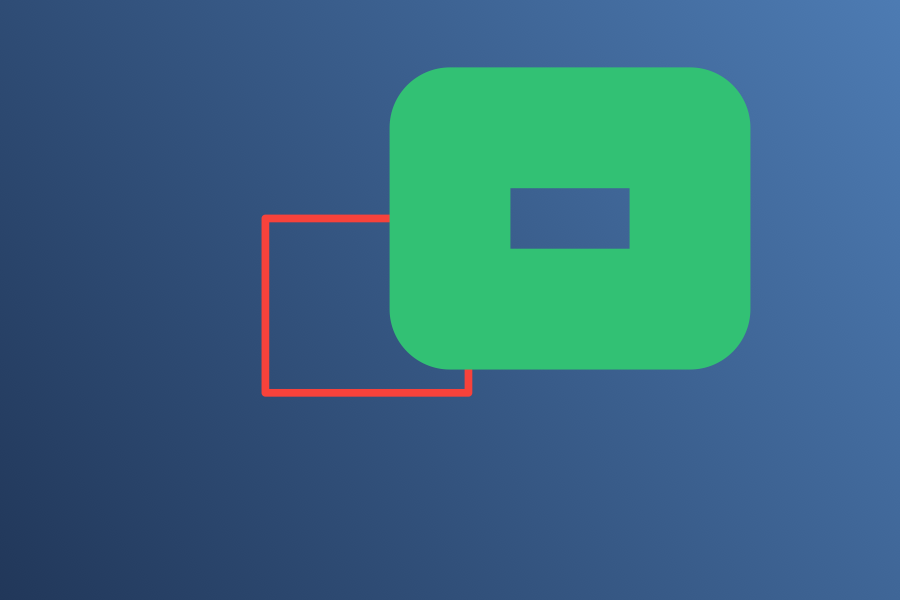
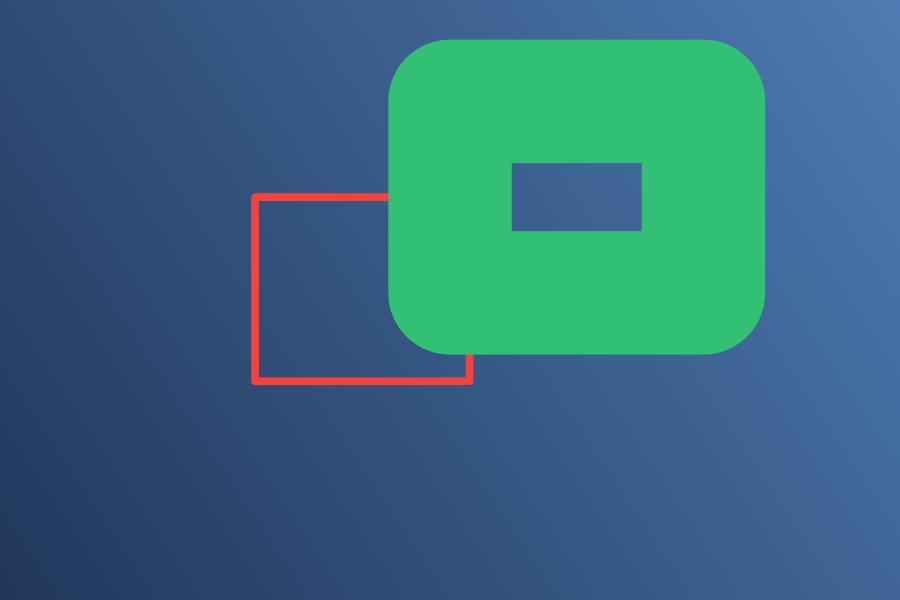
docs: refresh acceptance screenshots for the restored toolbar
构建 b33f610：上传按钮、圆角方形 chip、独立属性行与 Snapzy 图标词汇的
真实 AppKit 截图；所有实机检查保持通过。

Changed region(s): [[0.4044, 0.06, 0.8711, 0.57], [0.28, 0.3, 0.8089, 0.66], [0.56, 0.27, 0.7156, 0.42]]

diff --git a/docs/engineering/acceptance/assets/screenshot-annotation-parity/acceptance-record.md b/docs/engineering/acceptance/assets/screenshot-annotation-parity/acceptance-record.md
@@ -1,8 +1,8 @@
 # 截图标注实机验收记录
 
-- 日期：2026-11-16T22:00:22Z
+- 日期：2026-11-17T05:03:49Z
 - 系统：版本27.2.1（版号26B131）
-- 构建：bbe5e63
+- 构建：b33f610
 - 方式：debug `.app` 以 `--acceptance-annotation` 启动；真实 AppKit 窗口、真实 NSEvent 鼠标/键盘、真实 NSPasteboard；跳过 MacPilotAppServices，不触发全局快捷键、配置写入、屏幕采集或 TCC 授权
 - 会话状态：已解锁
 - 范围：全编辑器与 Inline 工具条的真实 UI 组件；区域截图裁剪本身由固定测试图像代替
@@ -15,19 +15,19 @@
 | 历史栈初始状态 | 通过 | annotations=2 |
 | Cmd+Z 撤销 | 通过 | annotations=1 |
 | Cmd+Shift+Z 重做 | 通过 | annotations=2 |
-| 鼠标调整对象大小 | 通过 | before=(0.5820512820512821, 0.3873504273504274, 0.18461538461538463, 0.2092307692307692) after=(0.5820512820512821, 0.29435897435897435, 0.2666666666666666, 0.3022222222222222) |
-| 鼠标移动对象 | 通过 | before=(0.5820512820512821, 0.29435897435897435, 0.2666666666666666, 0.3022222222222222) after=(0.5, 0.212991452991453, 0.2666666666666666, 0.3022222222222222) |
-| 鼠标修改线宽 | 通过 | before=3.0 after=47.0 |
+| 鼠标调整对象大小 | 通过 | before=(0.5866425992779783, 0.35306859205776175, 0.19494584837545126, 0.2209386281588447) after=(0.5866425992779783, 0.25487364620938624, 0.2815884476534296, 0.3191335740072202) |
+| 鼠标移动对象 | 通过 | before=(0.5866425992779783, 0.25487364620938624, 0.2815884476534296, 0.3191335740072202) after=(0.5, 0.16895306859205783, 0.2815884476534296, 0.3191335740072202) |
+| 鼠标修改线宽 | 通过 | before=3.0 after=48.0 |
 | 鼠标修改颜色 | 通过 | before=SmartAnnotationColor(red: 0.95, green: 0.16, blue: 0.18) after=SmartAnnotationColor(red: 0.18, green: 0.72, blue: 0.38) |
 | Inline 工具常驻数量 | 通过 | visible=13 missing= |
-| 工具栏在 1024×768 内可达 | 通过 | frame=(299.0, 74.0, 717.0, 74.0) |
-| 工具栏在 1920×1080 内可达 | 通过 | frame=(1195.0, 74.0, 717.0, 74.0) |
+| 工具栏在 1024×768 内可达 | 通过 | frame=(323.0, 74.0, 693.0, 84.0) |
+| 工具栏在 1920×1080 内可达 | 通过 | frame=(1219.0, 74.0, 693.0, 84.0) |
 | 物理显示器数量 | 通过 | #1 1440×900@2.0x, #2 1920×1080@1.0x |
-| 工具栏落在显示器 #1 | 通过 | frame=(715.0, 38.0, 717.0, 110.0) visible=(0.0, 0.0, 1440.0, 870.0) scale=2.0 |
-| 工具栏落在显示器 #2 | 通过 | frame=(-725.0, -36.0, 717.0, 110.0) visible=(-1864.0, -74.0, 1864.0, 1050.0) scale=1.0 |
+| 工具栏落在显示器 #1 | 通过 | frame=(739.0, 38.0, 693.0, 120.0) visible=(0.0, 0.0, 1440.0, 870.0) scale=2.0 |
+| 工具栏落在显示器 #2 | 通过 | frame=(-701.0, -36.0, 693.0, 120.0) visible=(-1864.0, -74.0, 1864.0, 1050.0) scale=1.0 |
 | 完整编辑器最小窗口 | 通过 | minSize=(720.0, 448.0) |
 | Copy & Close 关闭编辑器 | 通过 | window=closed |
-| Copy & Close 写入剪贴板 | 通过 | pngBytes=423698 |
+| Copy & Close 写入剪贴板 | 通过 | pngBytes=416352 |
 | 区域选区 Copy 裁剪尺寸 | 通过 | size=Optional((80, 50)) |
 | 区域选区 Copy 成功后关闭 | 通过 | dismissals=1 |
 

diff --git a/docs/engineering/acceptance/screenshot-annotation-parity-2026-11-16.md b/docs/engineering/acceptance/screenshot-annotation-parity-2026-11-16.md
@@ -17,7 +17,7 @@
 ## 环境
 
 - macOS：版本 27.2.1（版号 26B131）
-- 构建：`bbe5e63`
+- 构建：`b33f610`
 - 会话状态：**已解锁**（`IOConsoleLocked = No`）
 
 ## 结果
